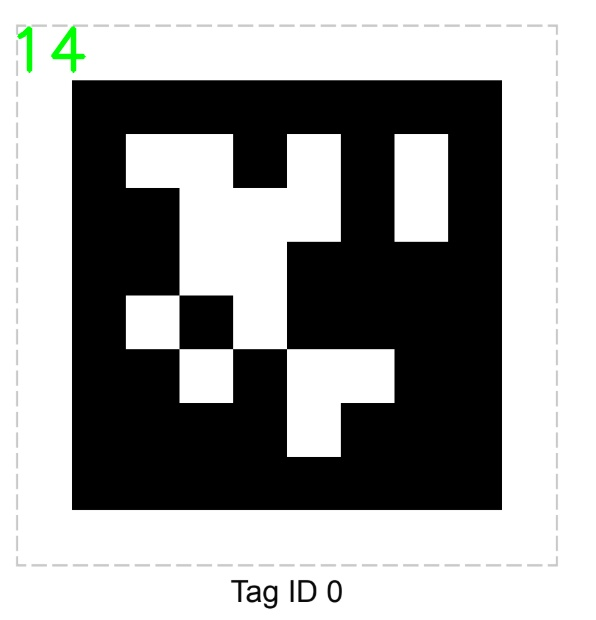
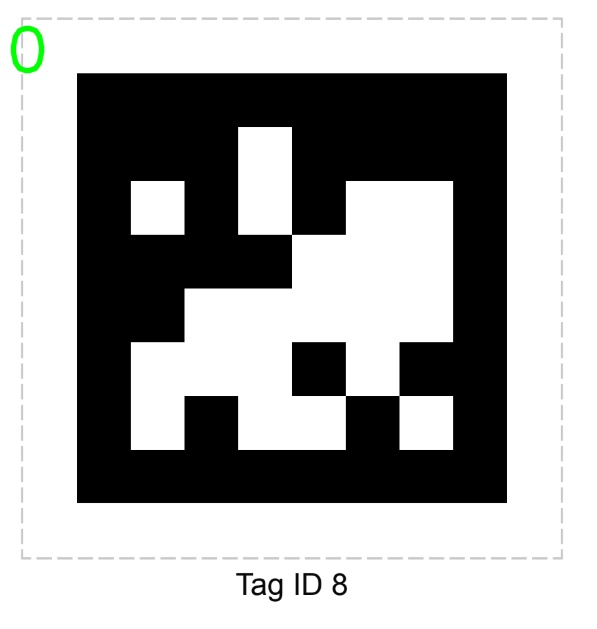
update

Changed region(s): [[0.2114, 0.1839, 0.7852, 0.7355], [0.0, 0.0306, 0.9362, 0.8274], [0.0302, 0.8581, 0.9362, 0.9806]]

diff --git a/src/localization/src/TagDeclaration.cpp b/src/localization/src/TagDeclaration.cpp
@@ -1,0 +1,135 @@
+#include <opencv2/opencv.hpp>
+#include <opencv2/aruco.hpp>
+#include <vector>
+
+using namespace cv;
+using namespace cv::aruco;
+
+// Your 10 patterns, 6x6 = 36 bits each, row-major, 1 = black, 0 = white
+static std::vector<std::vector<int>> getBasePatterns() {
+    return {
+        // Marker ID 0 (flipped)
+        { 0,0,1,0,1,0,
+          1,0,0,0,1,0,
+          1,0,0,1,1,1,
+          0,1,0,1,1,1,
+          1,0,1,0,0,1,
+          1,1,1,0,1,1 },
+
+        // Marker ID 1
+        { 0,0,1,0,0,1,
+          1,0,1,0,0,0,
+          0,0,0,0,1,1,
+          1,0,0,1,1,1,
+          0,1,0,0,1,0,
+          1,1,0,1,1,0 },
+
+        // Marker ID 2
+        { 0,0,1,0,0,0,
+          1,0,1,1,0,1,
+          0,1,1,1,1,1,
+          1,1,0,1,1,0,
+          1,1,1,0,1,1,
+          1,1,0,0,0,1 },
+
+        // Marker ID 3
+        { 0,0,0,1,1,0,
+          1,1,1,0,0,0,
+          0,1,1,0,0,0,
+          0,1,0,1,1,0,
+          0,0,1,1,0,1,
+          1,0,0,1,1,1 },
+
+        // Marker ID 4
+        { 0,0,0,1,0,1,
+          0,0,0,0,1,1,
+          0,1,0,0,0,0,
+          1,1,0,1,0,1,
+          0,1,1,1,1,1,
+          0,1,1,1,0,1 },
+
+        // Marker ID 5
+        { 0,0,0,0,1,1,
+          0,0,1,1,1,0,
+          0,0,1,0,0,1,
+          0,1,0,1,0,0,
+          1,1,0,0,0,1,
+          0,1,0,0,1,1 },
+
+        // Marker ID 6
+        { 1,1,1,1,1,0,
+          1,0,1,0,0,1,
+          0,1,0,1,1,0,
+          1,0,0,0,1,0,
+          1,1,1,1,0,1,
+          1,1,1,0,1,0 },
+
+        // Marker ID 7
+        { 1,1,1,0,1,1,
+          1,1,1,0,0,1,
+          1,0,1,0,1,1,
+          0,1,0,0,0,1,
+          1,1,1,0,0,0,
+          1,0,1,0,1,1 },
+
+        // Marker ID 8
+        { 1,1,0,1,1,1,
+          0,1,0,1,0,0,
+          1,1,1,0,0,0,
+          1,0,0,0,0,0,
+          0,0,0,1,0,1,
+          0,1,0,0,1,0 },
+
+        // Marker ID 9
+        { 1,1,0,1,1,0,
+          0,1,1,0,1,0,
+          0,1,0,1,0,0,
+          1,0,1,1,1,1,
+          1,0,1,1,1,0,
+          0,0,1,1,0,1 }
+    };
+}
+
+// Build a cv::Mat bytesList from basePatterns (N x 5, packed bits)
+static cv::Mat buildMarkerBitsMat(const std::vector<std::vector<int>>& patterns,
+                                  int markerSize) {
+    const int nMarkers      = static_cast<int>(patterns.size());
+    const int bitsPerMarker = markerSize * markerSize;  // 36
+    const int bytesPerMarker = (bitsPerMarker + 7) / 8; // 5
+
+    cv::Mat markerBits(nMarkers, bytesPerMarker, CV_8UC1, cv::Scalar(0));
+
+    for (int m = 0; m < nMarkers; ++m) {
+        const auto& p = patterns[m];
+        CV_Assert(static_cast<int>(p.size()) == bitsPerMarker);
+
+        for (int bit = 0; bit < bitsPerMarker; ++bit) {
+            int v = p[bit];            // 0 or 1
+            if (v == 0) continue;      // leave bit as 0
+
+            int byteIdx = bit / 8;
+            int bitIdx  = bit % 8;
+
+            uchar& b = markerBits.at<uchar>(m, byteIdx);
+            b |= static_cast<uchar>(1 << (7 - bitIdx)); // MSB first
+        }
+    }
+
+    return markerBits;
+}
+
+// This is what your node should call
+cv::Ptr<cv::aruco::Dictionary> createArcMarkersDictionary() {
+    const int markerSize = 6;
+    auto patterns = getBasePatterns();
+    cv::Mat markerBits = buildMarkerBitsMat(patterns, markerSize);
+
+    int nMarkers = markerBits.rows;
+    cv::Ptr<cv::aruco::Dictionary> dict =
+        cv::aruco::Dictionary::create(nMarkers, markerSize);
+
+    dict->bytesList = markerBits.clone();
+    dict->maxCorrectionBits = 0; // start with strict matching
+
+    return dict;
+}

diff --git a/src/localization/src/localization_node.cpp b/src/localization/src/localization_node.cpp
@@ -10,6 +10,7 @@
 #include <numeric>
 #include <opencv2/aruco.hpp>
 #include <opencv2/aruco/charuco.hpp>
+#include "TagDeclaration.hpp"
 // #include <opencv2/objdetect/aruco_detector.hpp>
 
 using namespace cv;
@@ -258,7 +259,7 @@ public:
 
     void callback() {
         Mat frame;
-        frame = imread("src/localization/src/tag0.png");
+        frame = imread("src/localization/src/tag8.png");
         RCLCPP_INFO(this->get_logger(), "Past the reading frame + frame = %dx%d", frame.cols, frame.rows);
 
         // if (!cap_.read(frame) || frame.empty()) {
@@ -278,7 +279,6 @@ public:
 
         // --- ArUco detection (6x6) ---
         // TODO CHECK IF CORRECT DICTIONARY
-        cv::Ptr<cv::aruco::Dictionary> dict = cv::aruco::getPredefinedDictionary(cv::aruco::DICT_6X6_1000);
         cv::Ptr<cv::aruco::DetectorParameters> params = cv::aruco::DetectorParameters::create();
 
         std::vector<std::vector<cv::Point2f>> corners;
@@ -289,14 +289,43 @@ public:
 
         // For debugging:
         //std::cout << resultJson << std::endl;
-        debugArucoDictionaries(frame);
 
-        cv::aruco::detectMarkers(frame, dict, corners, ids, params, rejected);
+// Try 4 rotation steps: 0°, 90°, 180°, 270° CW
+for (int rotationSteps = 0; rotationSteps < 4; ++rotationSteps) {
+    // If your createArcMarkersDictionary currently takes no args,
+    // make an overload: createArcMarkersDictionary(int rotationSteps)
 
-        // Optional: draw debug
-        if (!ids.empty()) {
-            cv::aruco::drawDetectedMarkers(frame, corners, ids);
+    ids.clear();
+    corners.clear();
+    rejected.clear();
+
+    auto dict = createArcMarkersDictionary();
+    RCLCPP_INFO(this->get_logger(), "Custom dict rows=%d cols=%d",
+            dict->bytesList.rows, dict->bytesList.cols);
+
+    cv::aruco::detectMarkers(frame, dict, corners, ids, params, rejected);
+
+
+    // Label for logging
+    const char* label = nullptr;
+    switch (rotationSteps) {
+        case 0: label = "0 deg (no rotation)"; break;
+        case 1: label = "90 deg CW";           break;
+        case 2: label = "180 deg CW";          break;
+        case 3: label = "270 deg CW";          break;
+        default: label = "unknown";            break;
+    }
+
+    if (!ids.empty()) {
+        RCLCPP_INFO(this->get_logger(), "For %s, detected IDs:", label);
+        for (size_t i = 0; i < ids.size(); ++i) {
+            RCLCPP_INFO(this->get_logger(), "  ID %d", ids[i]);
         }
+
+    } else {
+        RCLCPP_INFO(this->get_logger(), "For %s, detected NO markers.", label);
+    }
+}
 
         // For each detected marker, compute pose using your existing solver
         for (size_t i = 0; i < ids.size(); ++i) {

diff --git a/src/localization/src/TagDeclaration.hpp b/src/localization/src/TagDeclaration.hpp
@@ -1,0 +1,4 @@
+#pragma once
+#include <opencv2/aruco.hpp>
+
+cv::Ptr<cv::aruco::Dictionary> createArcMarkersDictionary();
